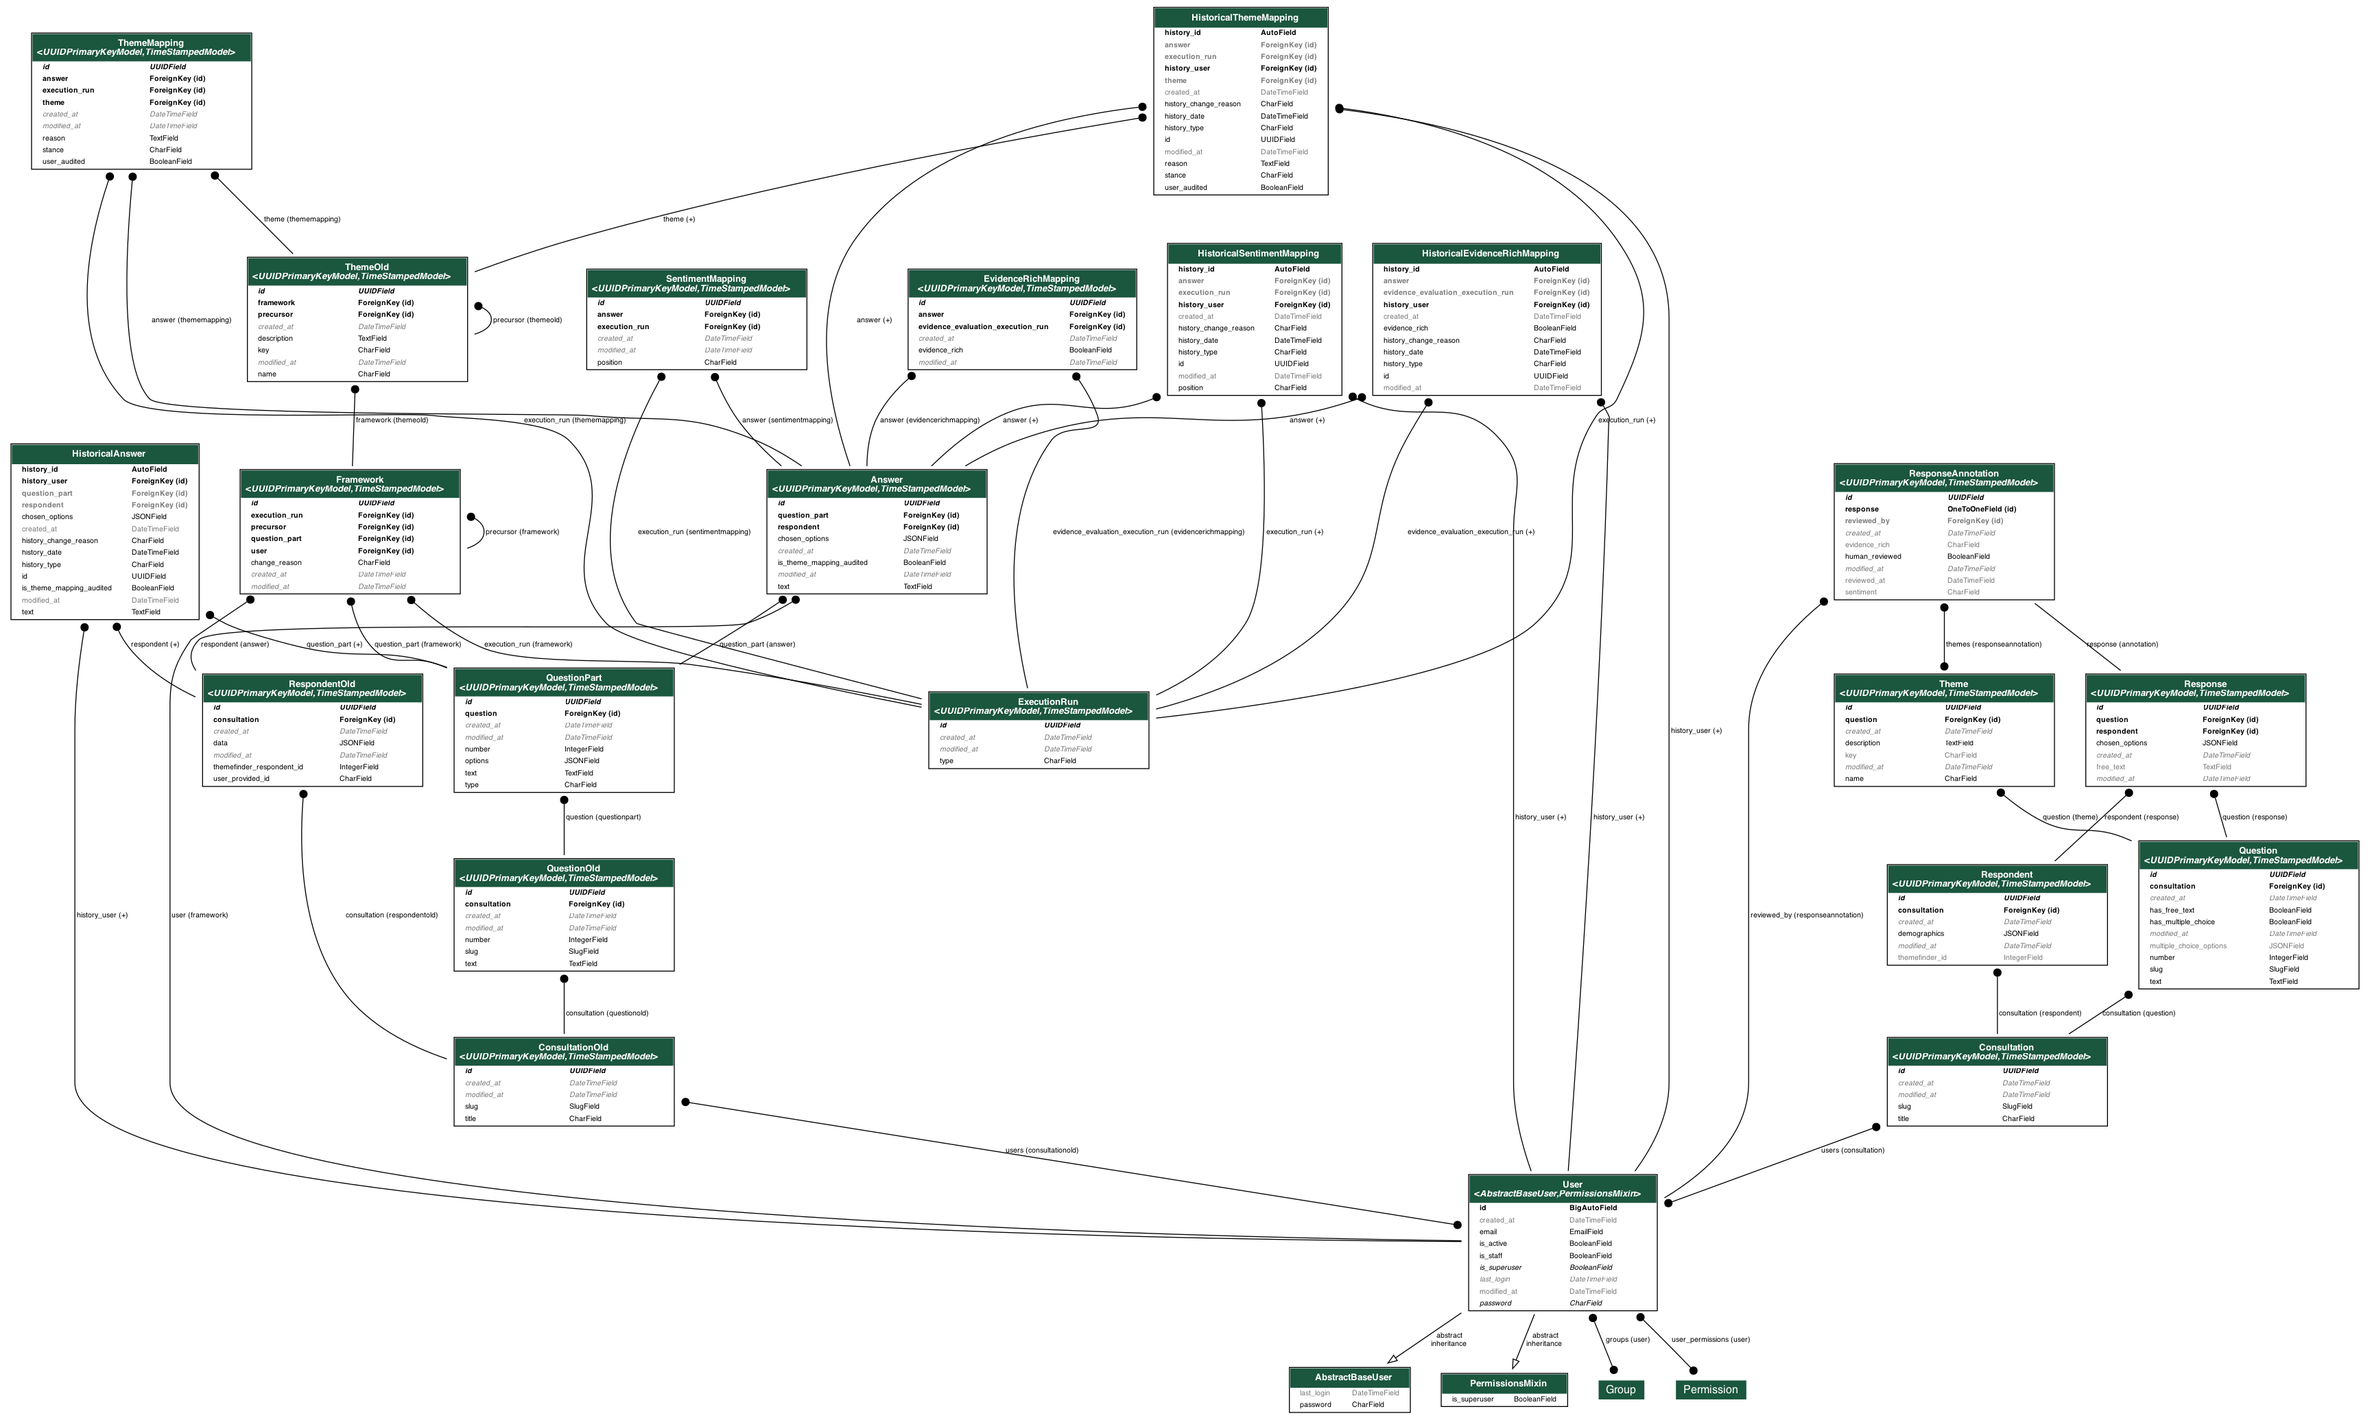
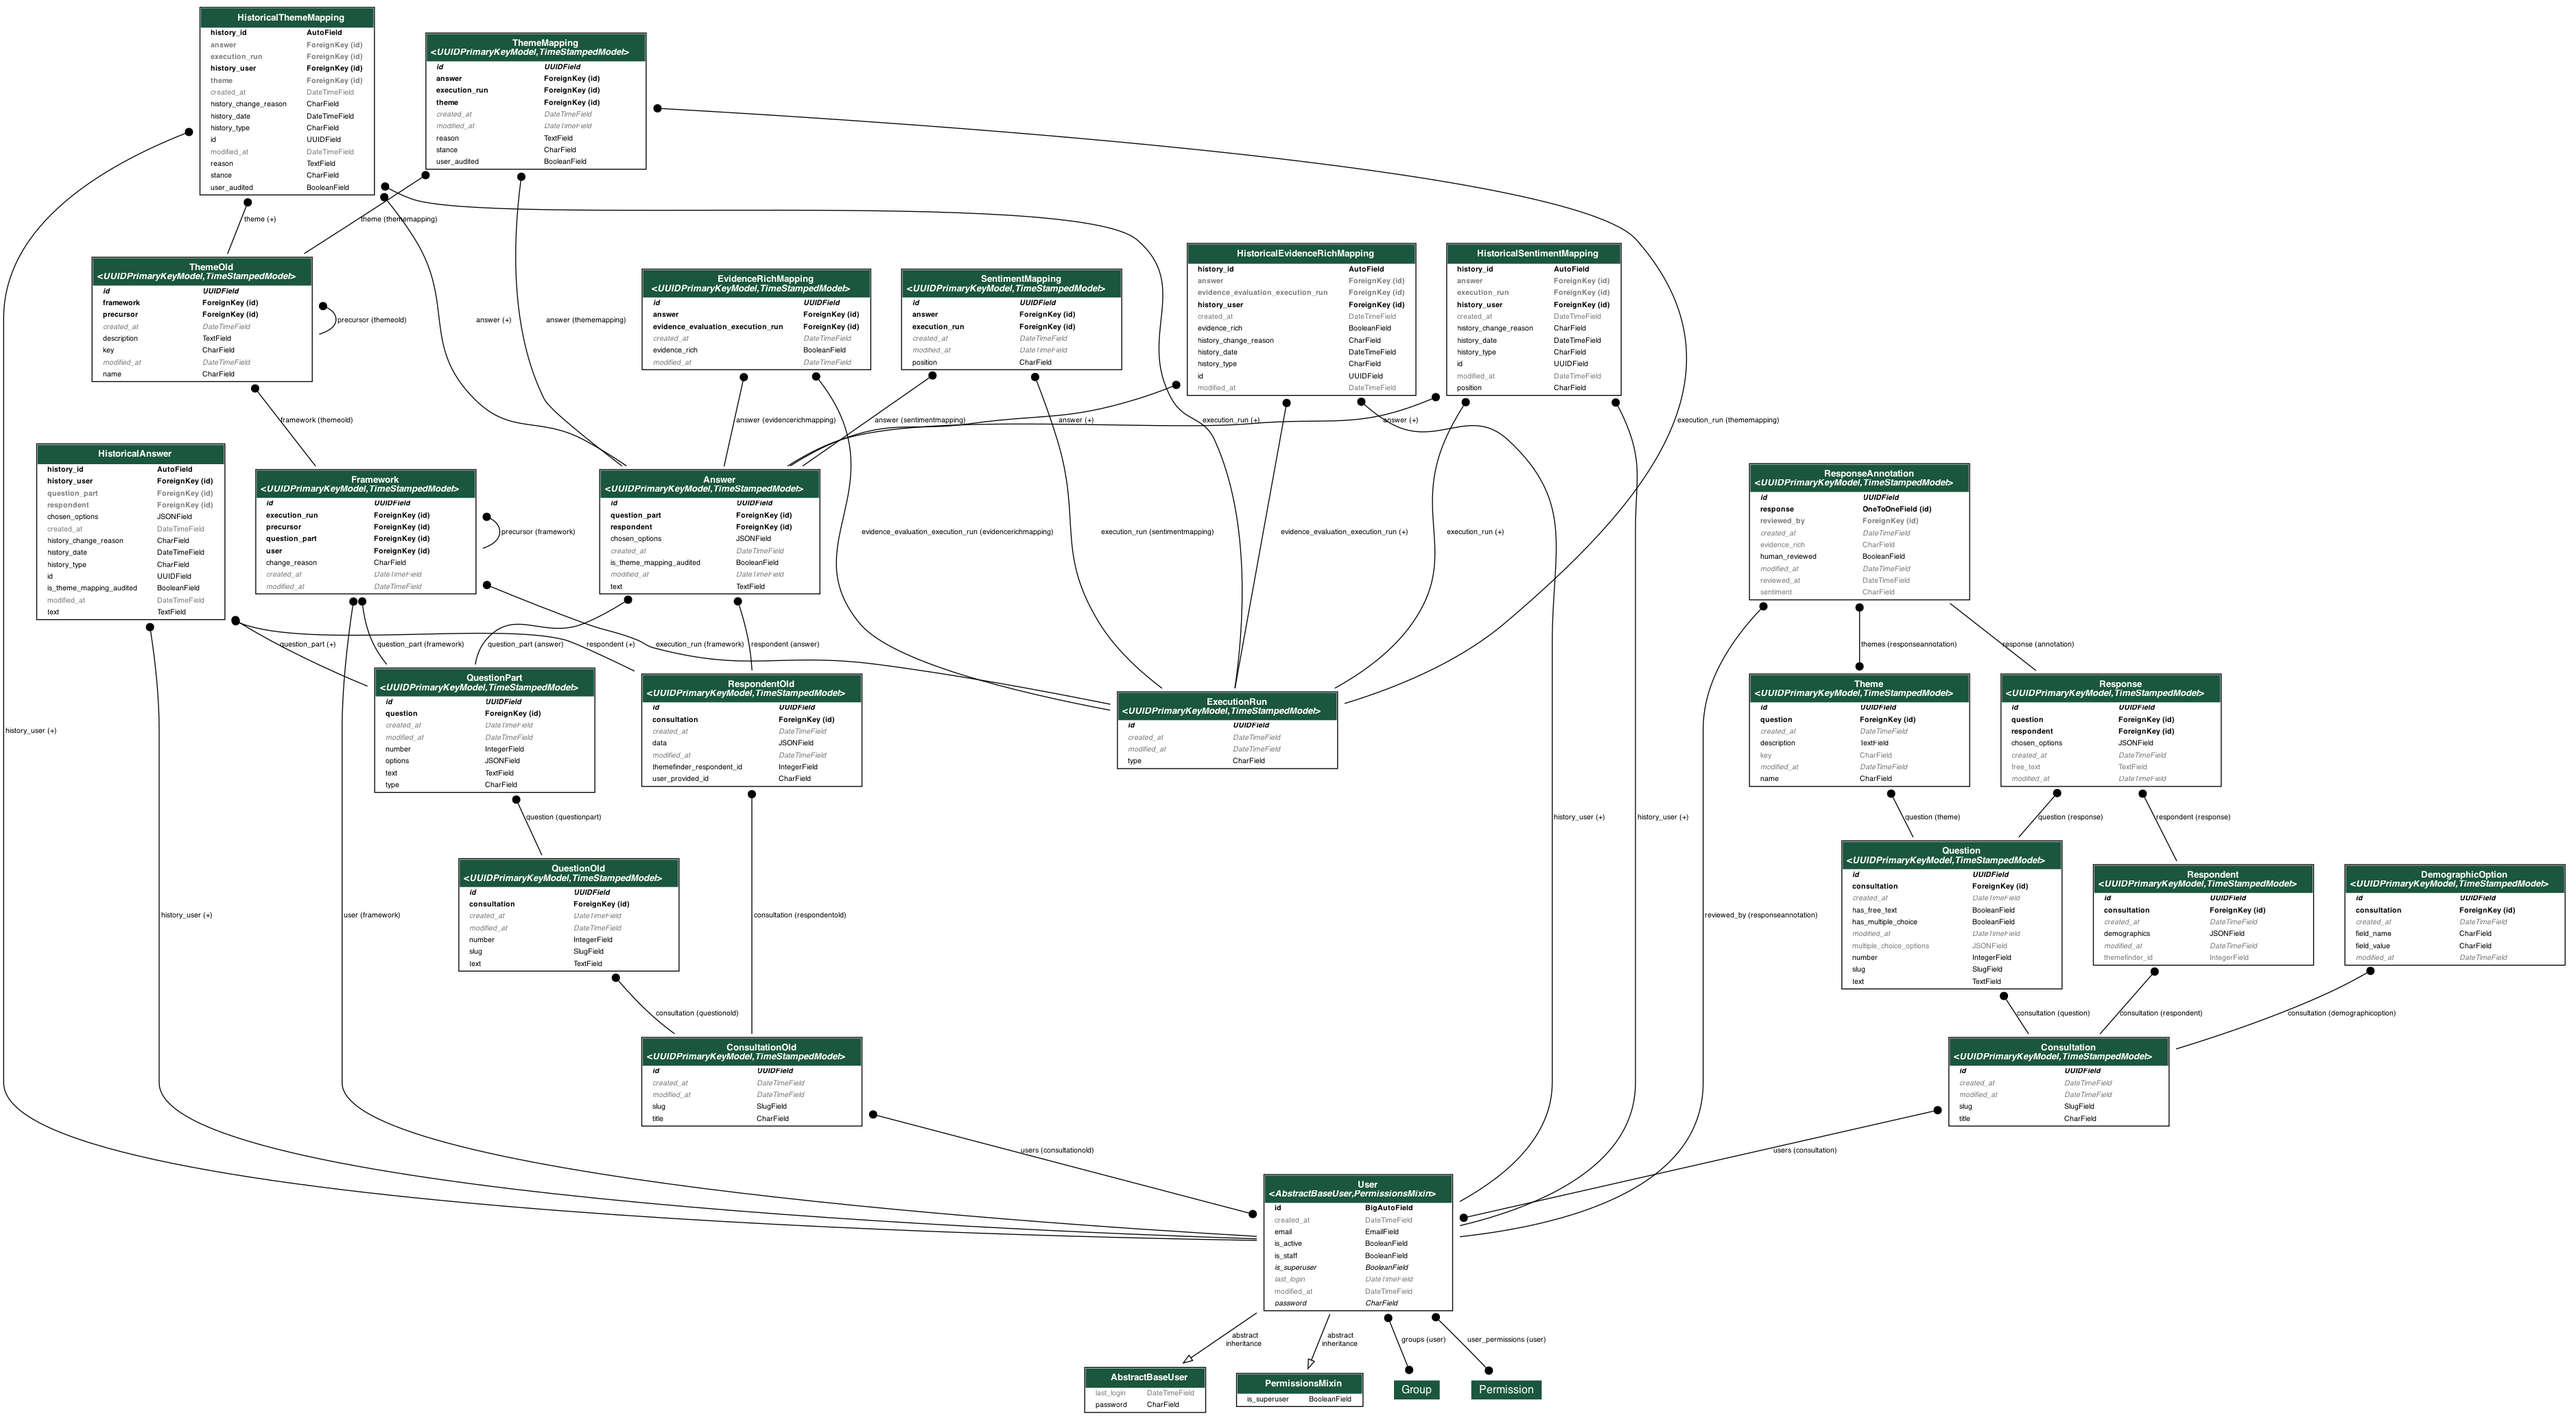
Add: new demographicoption model to increase the speed of option retrieval.

diff --git a/tests/views/test_answers.py b/tests/views/test_answers.py
@@ -3,6 +3,7 @@ from django.contrib.auth.models import Group
 from django.test import RequestFactory
 
 from consultation_analyser.constants import DASHBOARD_ACCESS
+from consultation_analyser.consultations.models import DemographicOption
 from consultation_analyser.consultations.views.answers import (
     parse_filters_from_request,
     build_response_filter_query,
@@ -138,11 +139,57 @@ def test_get_demographic_options_with_data(consultation):
         demographics={"individual": True, "region": "north", "age": 45}
     )
     
+    # Rebuild demographic options from respondent data
+    DemographicOption.rebuild_for_consultation(consultation)
+    
     options = get_demographic_options(consultation)
     
     assert set(options["individual"]) == {"False", "True"}
     assert set(options["region"]) == {"north", "south"}
     assert set(options["age"]) == {"25", "35", "45"}
+
+
+@pytest.mark.django_db
+def test_demographic_option_rebuild_for_consultation(consultation):
+    """Test the DemographicOption.rebuild_for_consultation method"""
+    # Create respondents with different demographic data
+    RespondentFactory(
+        consultation=consultation,
+        demographics={"category": "A", "score": 10}
+    )
+    RespondentFactory(
+        consultation=consultation,
+        demographics={"category": "B", "score": 20}
+    )
+    
+    # Initially no demographic options should exist
+    assert DemographicOption.objects.filter(consultation=consultation).count() == 0
+    
+    # Rebuild should create the options
+    count = DemographicOption.rebuild_for_consultation(consultation)
+    assert count == 4  # 2 categories + 2 scores
+    
+    # Verify options were created correctly
+    options = DemographicOption.objects.filter(consultation=consultation)
+    field_values = {(opt.field_name, opt.field_value) for opt in options}
+    expected = {("category", "A"), ("category", "B"), ("score", "10"), ("score", "20")}
+    assert field_values == expected
+    
+    # Test rebuilding again should clear old options and create new ones
+    RespondentFactory(
+        consultation=consultation,
+        demographics={"category": "C", "new_field": "test"}
+    )
+    
+    count = DemographicOption.rebuild_for_consultation(consultation)
+    assert count == 6  # 3 categories + 2 scores + 1 new_field
+    
+    # Verify the new state
+    options = DemographicOption.objects.filter(consultation=consultation)
+    field_values = {(opt.field_name, opt.field_value) for opt in options}
+    expected = {("category", "A"), ("category", "B"), ("category", "C"), 
+                ("score", "10"), ("score", "20"), ("new_field", "test")}
+    assert field_values == expected
 
 
 @pytest.mark.django_db

diff --git a/consultation_analyser/consultations/models.py b/consultation_analyser/consultations/models.py
@@ -597,6 +597,53 @@ class Response(UUIDPrimaryKeyModel, TimeStampedModel):
         ]
 
 
+class DemographicOption(UUIDPrimaryKeyModel, TimeStampedModel):
+    """Normalized storage of demographic field options for efficient querying across pages"""
+    
+    consultation = models.ForeignKey(Consultation, on_delete=models.CASCADE)
+    field_name = models.CharField(max_length=128)
+    field_value = models.CharField(max_length=256)
+    
+    class Meta(UUIDPrimaryKeyModel.Meta, TimeStampedModel.Meta):
+        constraints = [
+            models.UniqueConstraint(
+                fields=["consultation", "field_name", "field_value"],
+                name="unique_demographic_option"
+            ),
+        ]
+        indexes = [
+            models.Index(fields=["consultation", "field_name"]),
+        ]
+    
+    @classmethod
+    def rebuild_for_consultation(cls, consultation: "Consultation") -> int:
+        """Rebuild demographic options for a consultation from respondent data"""
+        # Clear existing options
+        cls.objects.filter(consultation=consultation).delete()
+        
+        # Collect unique demographic field/value pairs
+        demographic_options_to_create = set()
+        
+        respondents = Respondent.objects.filter(consultation=consultation)
+        for respondent in respondents:
+            if respondent.demographics:
+                for field_name, field_value in respondent.demographics.items():
+                    demographic_options_to_create.add((field_name, str(field_value)))
+        
+        # Bulk create new options
+        options_to_save = [
+            cls(
+                consultation=consultation,
+                field_name=field_name,
+                field_value=field_value
+            ) 
+            for field_name, field_value in demographic_options_to_create
+        ]
+        
+        cls.objects.bulk_create(options_to_save)
+        return len(options_to_save)
+
+
 class Theme(UUIDPrimaryKeyModel, TimeStampedModel):
     """AI-generated themes for a question (only for free text parts)"""
 

diff --git a/consultation_analyser/consultations/migrations/0055_add_demographic_option_model.py b/consultation_analyser/consultations/migrations/0055_add_demographic_option_model.py
@@ -1,0 +1,56 @@
+# Generated by Django 5.1.8 on 2025-06-16 11:23
+
+import django.db.models.deletion
+import uuid
+from django.db import migrations, models
+
+
+class Migration(migrations.Migration):
+
+    dependencies = [
+        ("consultations", "0054_remove_response_consultatio_free_te_47c4fc_idx"),
+    ]
+
+    operations = [
+        migrations.CreateModel(
+            name="DemographicOption",
+            fields=[
+                (
+                    "id",
+                    models.UUIDField(
+                        default=uuid.uuid4,
+                        editable=False,
+                        primary_key=True,
+                        serialize=False,
+                    ),
+                ),
+                ("created_at", models.DateTimeField(auto_now_add=True)),
+                ("modified_at", models.DateTimeField(auto_now=True)),
+                ("field_name", models.CharField(max_length=128)),
+                ("field_value", models.CharField(max_length=256)),
+                (
+                    "consultation",
+                    models.ForeignKey(
+                        on_delete=django.db.models.deletion.CASCADE,
+                        to="consultations.consultation",
+                    ),
+                ),
+            ],
+            options={
+                "ordering": ["created_at"],
+                "abstract": False,
+                "indexes": [
+                    models.Index(
+                        fields=["consultation", "field_name"],
+                        name="consultatio_consult_fd8b04_idx",
+                    )
+                ],
+                "constraints": [
+                    models.UniqueConstraint(
+                        fields=("consultation", "field_name", "field_value"),
+                        name="unique_demographic_option",
+                    )
+                ],
+            },
+        ),
+    ]

diff --git a/consultation_analyser/consultations/views/answers.py b/consultation_analyser/consultations/views/answers.py
@@ -196,23 +196,18 @@ def build_respondent_data(respondent: models.Respondent, response: models.Respon
 
 
 def get_demographic_options(consultation: models.Consultation) -> dict[str, list]:
-    """Discover all demographic fields and their possible values in a consultation"""
-    # Get all unique demographic keys and values
-    demographic_data = {}
+    """Get all demographic fields and their possible values from normalized storage"""
+    options = models.DemographicOption.objects.filter(
+        consultation=consultation
+    ).values_list('field_name', 'field_value').order_by('field_name', 'field_value')
     
-    # Query all respondents for this consultation
-    respondents = models.Respondent.objects.filter(consultation=consultation)
+    result = {}
+    for field_name, field_value in options:
+        if field_name not in result:
+            result[field_name] = []
+        result[field_name].append(field_value)
     
-    for respondent in respondents:
-        if respondent.demographics:
-            for key, value in respondent.demographics.items():
-                if key not in demographic_data:
-                    demographic_data[key] = set()
-                # Convert value to string for consistency
-                demographic_data[key].add(str(value))
-    
-    # Convert sets to sorted lists
-    return {key: sorted(list(values)) for key, values in demographic_data.items()}
+    return result
 
 
 def derive_option_summary_from_responses(responses) -> list[dict]:

diff --git a/consultation_analyser/support_console/ingest.py b/consultation_analyser/support_console/ingest.py
@@ -6,6 +6,7 @@ from django.conf import settings
 
 from consultation_analyser.consultations.models import (
     Consultation,
+    DemographicOption,
     Question,
     Respondent,
     Response,
@@ -234,6 +235,10 @@ def import_consultation(
         
         Respondent.objects.bulk_create(respondents_to_save)
         logger.info(f"Imported {respondent_count} respondents")
+        
+        # Build demographic options from respondent data
+        demographic_options_count = DemographicOption.rebuild_for_consultation(consultation)
+        logger.info(f"Created {demographic_options_count} demographic options")
         
         # 3. Process each question
         question_folders = get_question_folders(inputs_path, bucket_name)
